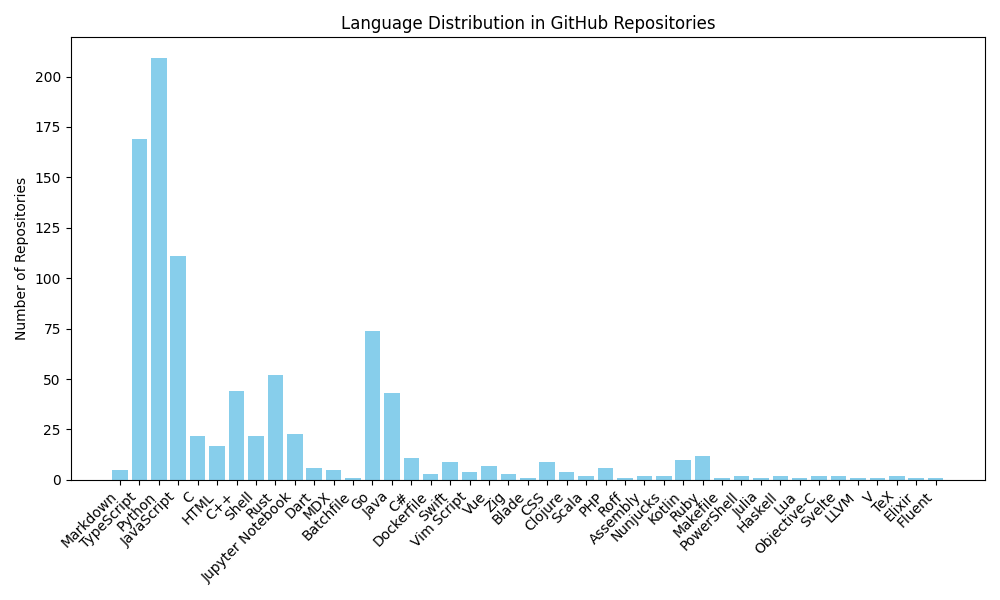
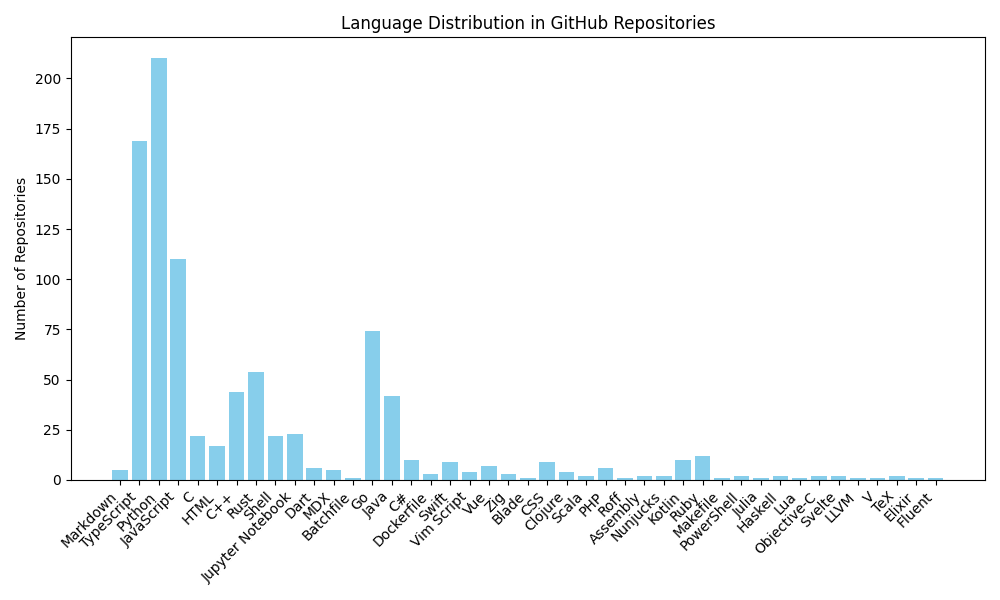
Update language distribution chart

diff --git a/README.md b/README.md
@@ -5,7 +5,7 @@
 Total repositories processed: 906
 
 Language distribution:
-Markdown: 5, TypeScript: 169, Python: 209, JavaScript: 111, C: 22, HTML: 17, C++: 44, Shell: 22, Rust: 52, Jupyter Notebook: 23, Dart: 6, MDX: 5, Batchfile: 1, Go: 74, Java: 43, C#: 11, Dockerfile: 3, Swift: 9, Vim Script: 4, Vue: 7, Zig: 3, Blade: 1, CSS: 9, Clojure: 4, Scala: 2, PHP: 6, Roff: 1, Assembly: 2, Nunjucks: 2, Kotlin: 10, Ruby: 12, Makefile: 1, PowerShell: 2, Julia: 1, Haskell: 2, Lua: 1, Objective-C: 2, Svelte: 2, LLVM: 1, V: 1, TeX: 2, Elixir: 1, Fluent: 1
+Markdown: 5, TypeScript: 169, Python: 210, JavaScript: 110, C: 22, HTML: 17, C++: 44, Rust: 54, Shell: 22, Jupyter Notebook: 23, Dart: 6, MDX: 5, Batchfile: 1, Go: 74, Java: 42, C#: 10, Dockerfile: 3, Swift: 9, Vim Script: 4, Vue: 7, Zig: 3, Blade: 1, CSS: 9, Clojure: 4, Scala: 2, PHP: 6, Roff: 1, Assembly: 2, Nunjucks: 2, Kotlin: 10, Ruby: 12, Makefile: 1, PowerShell: 2, Julia: 1, Haskell: 2, Lua: 1, Objective-C: 2, Svelte: 2, LLVM: 1, V: 1, TeX: 2, Elixir: 1, Fluent: 1
 
 
-_Last updated: 2026-04-19 02:11:06_
+_Last updated: 2026-04-26 02:14:06_
